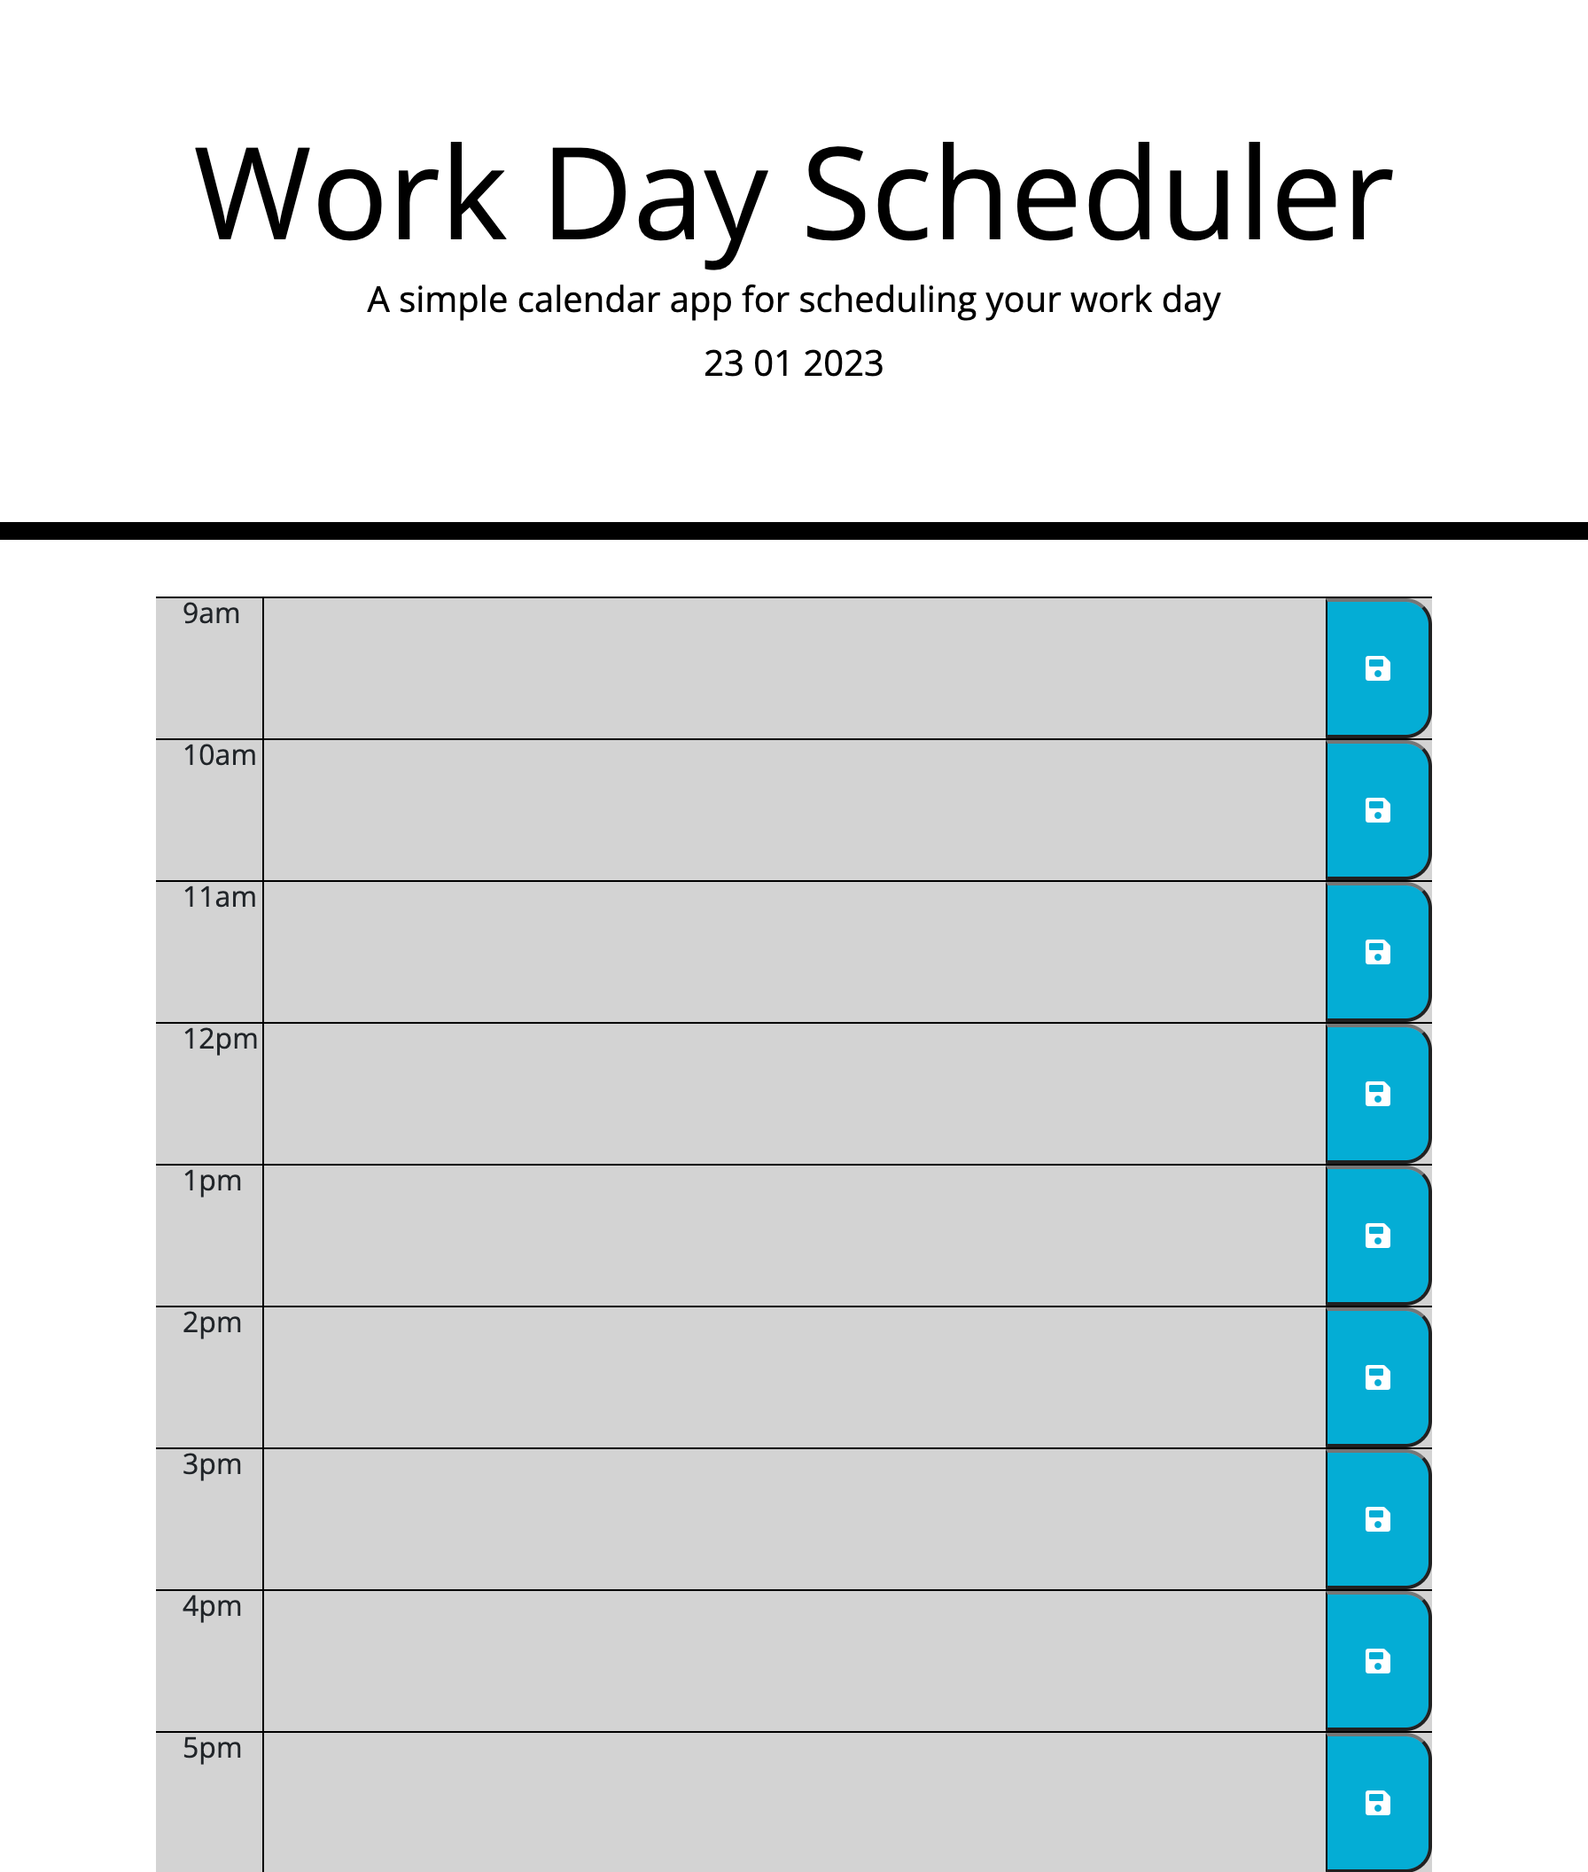
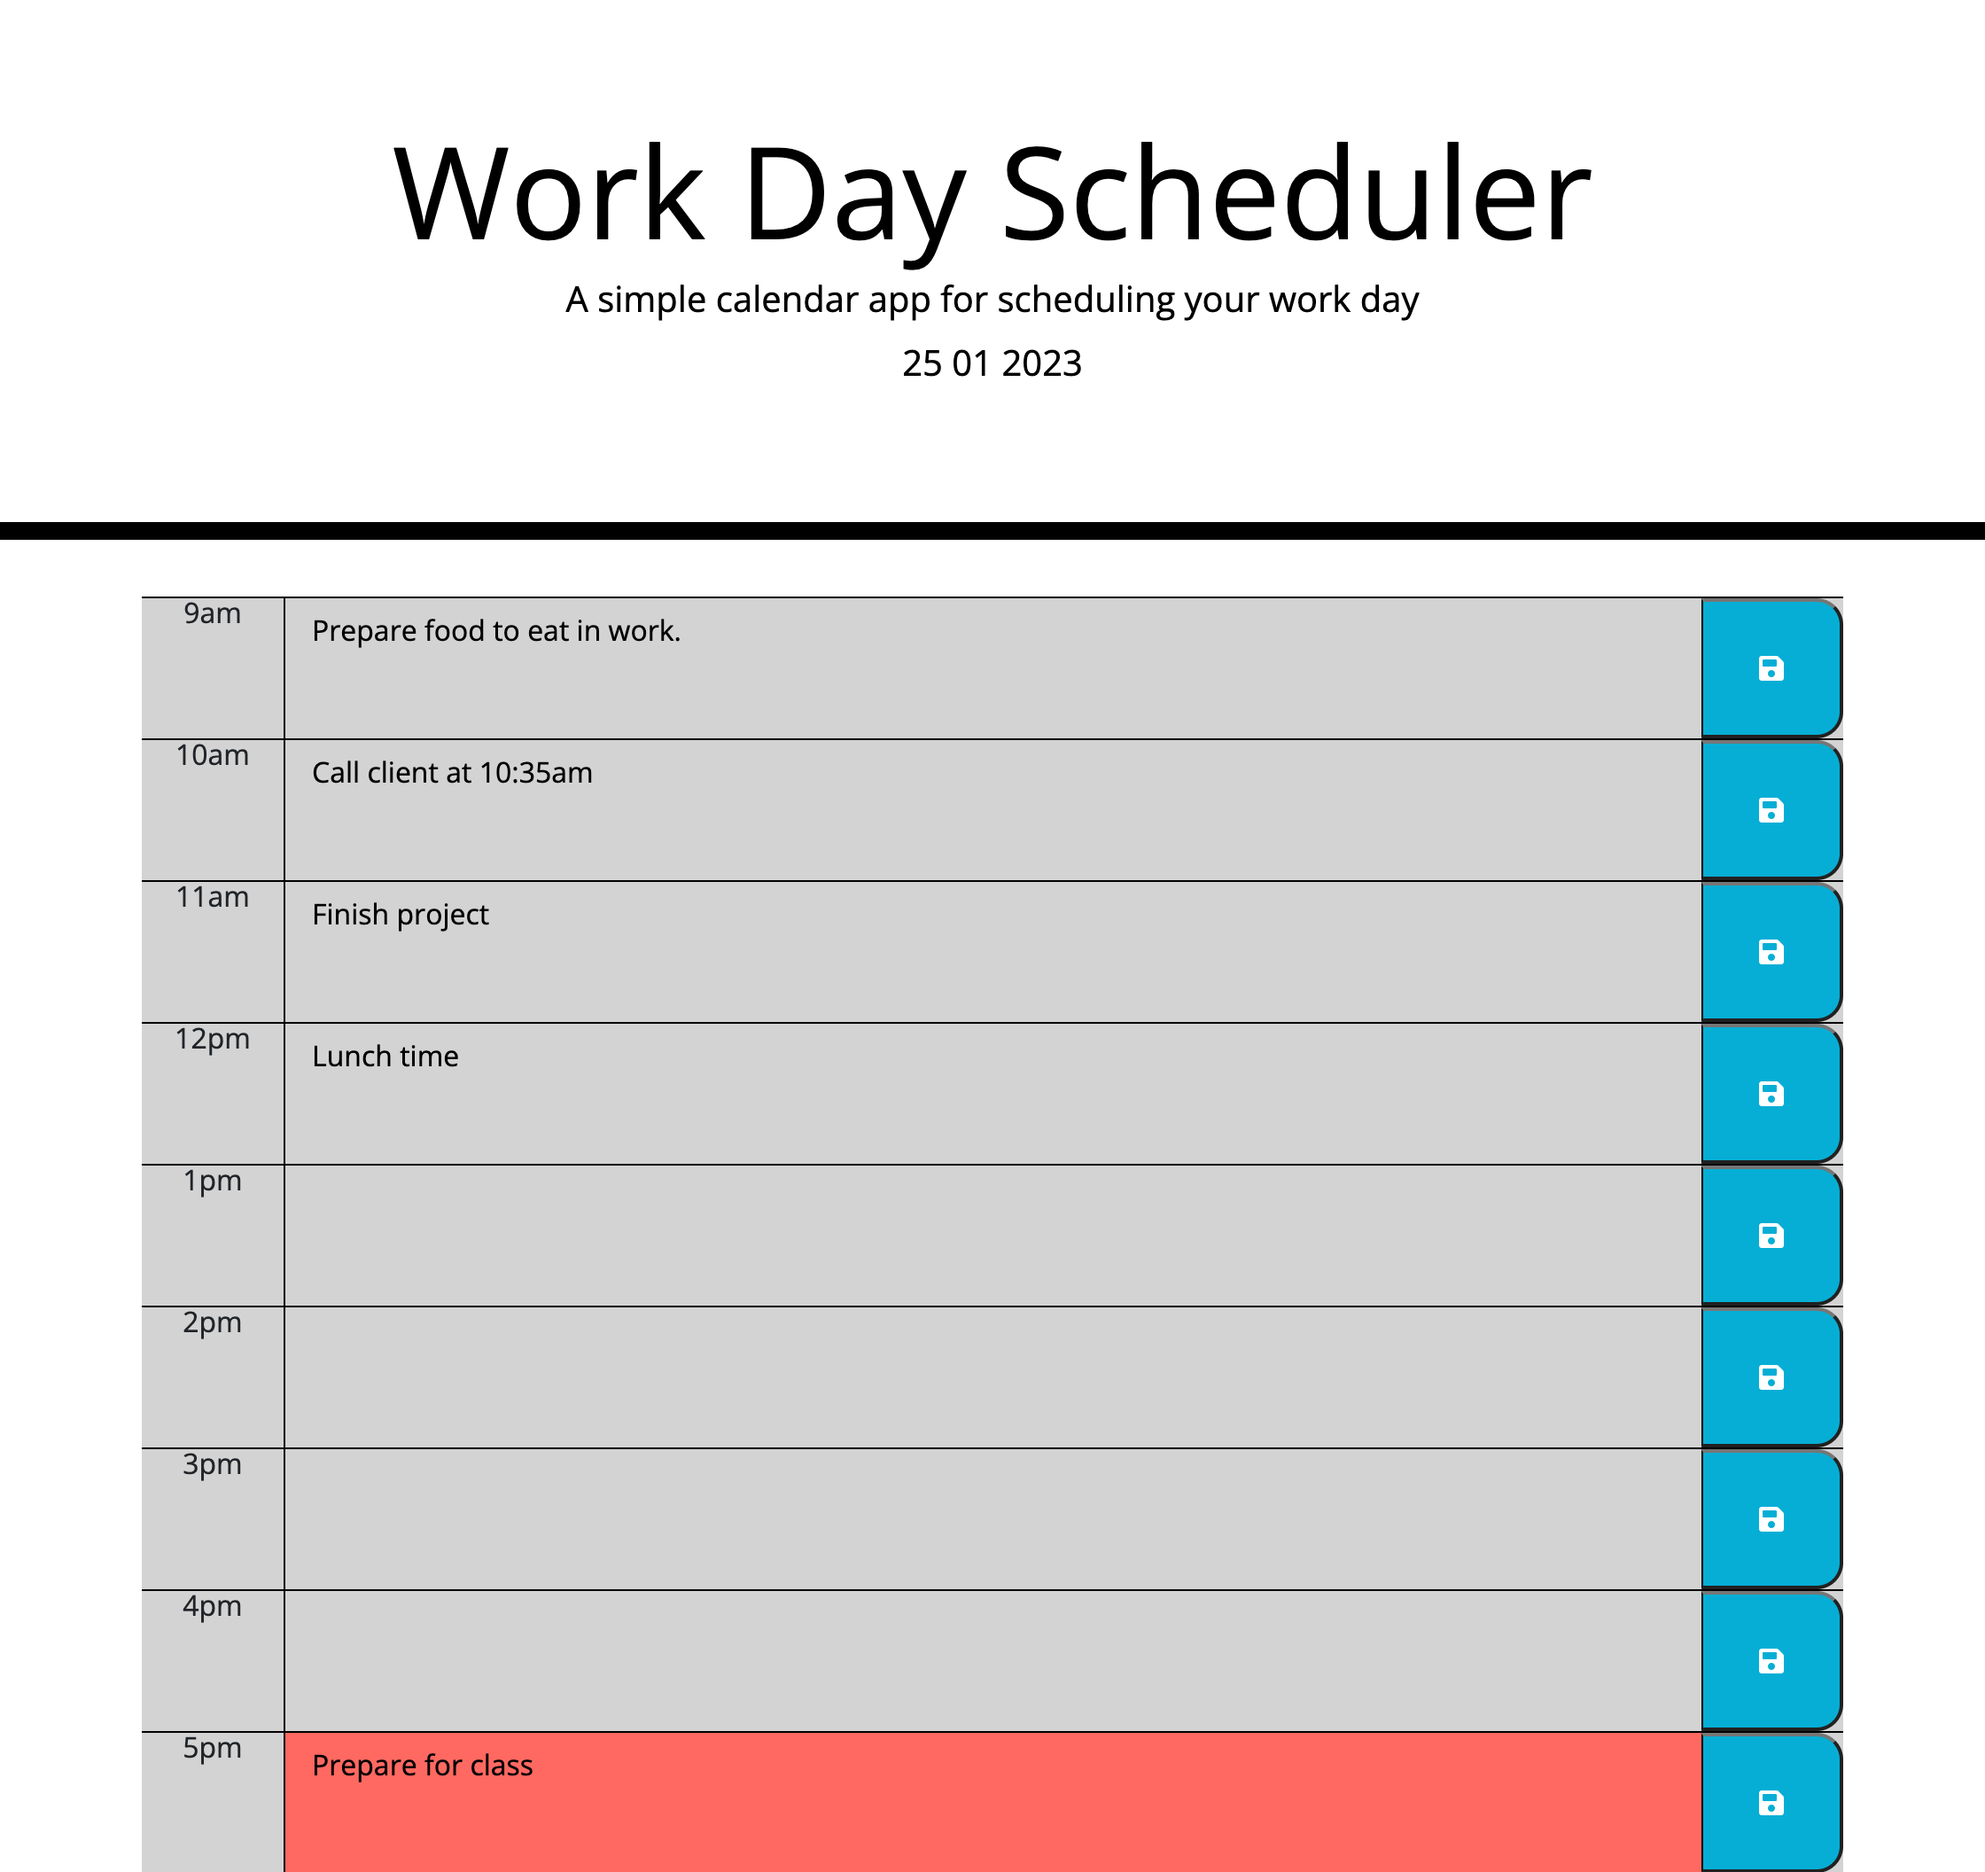
added document ready function, a new for loop and an event listener

diff --git a/assets/script.js b/assets/script.js
@@ -31,7 +31,6 @@ $("#currentDay").text(currentDate.format("D MM YYYY"));
 //array of hours.
 
 var hours = [
- 
   {
     hour: 9,
     displayHour: "9am",
@@ -67,8 +66,7 @@ var hours = [
   {
     hour: 17,
     displayHour: "5pm",
-  }
-
+  },
 ];
 
 //-------------------------Create a function to display the divs---------------------------------//
@@ -84,7 +82,6 @@ function displayBlock() {
         <textarea id="text-${currentHour.hour}" class="col-lg-10 col-md-10"></textarea>
         <button id="button-${currentHour.hour}" class="fa fa-save col-lg-1 col-md-1 saveBtn"></button>
       </div>`;
-
   }
 
   $("#timeDiv").html(blockHTML); //appends the html to the html div
@@ -101,65 +98,31 @@ function displayBlock() {
     } else {
       $(`#text-${currentHour.hour}`).addClass("future");
     }
-
-
-
-
-
-       //eventListener for click on current button
-
-     $(`#button-${currentHour.hour}`).on("click", function (currentHour) {
-       
-       // Selecting the text that was entered in the textbox
-       var textInput = $(this).prev().val();
-
-       //setting the key and value to local storage (saving both to local storage)
-       localStorage.setItem(`text-${currentHour.hour}`, textInput);
-
-        //gets the value and stores it in a variable called storedText
-        var storedText = localStorage.getItem(`text-${currentHour.hour}`);
-
-        //Needs to stay in the same play after refreshing or closing the window.
-
-
-
-     });
   }
-
-  
-
-
 }
-
 
 displayBlock();
 
+//document.ready JQuery function that will only run the code inside it once everything has loaded.
+$(document).ready(function () {
+  //for loop that
+  for (var i = 0; i < hours.length; i++) {
+    var currentHour = hours[i];
 
-    
+    //retrieve value after refresh
+    $(`#text-${currentHour.hour}`).val(
+      localStorage.getItem(`text-${currentHour.hour}`)
+    );
+  }
 
+  //eventListener for button click event
+  $(".saveBtn").on("click", function (currentHour) {
+    //test click even works
+    console.log("click even working");
 
+    var hour = $(this).attr("id").split("-")[1];
 
-
-
-
-   
-
-
-
-//-----------Create a function that checks what the current time is---------------------------------//
-//-----------then make it change color based on if its in the past, present or future-------------//
-
-//Color-code each timeblock based on past, present, and future when the timeblock is viewed.
-
-//if the current time is 'right now' then that element should have a background color of red.
-//else if - the array elements are less than the current time.
-//set the background color of those elements to grey.
-
-//else if - the array elements are more than the current time
-//set background color to green.
-
-// function changeTimeblockColour() {
-
-// }
-
-// changeTimeblockColour();
+    //save value to local storage
+    localStorage.setItem(`text-${hour}`, $(`#text-${hour}`).val());
+  });
+});
